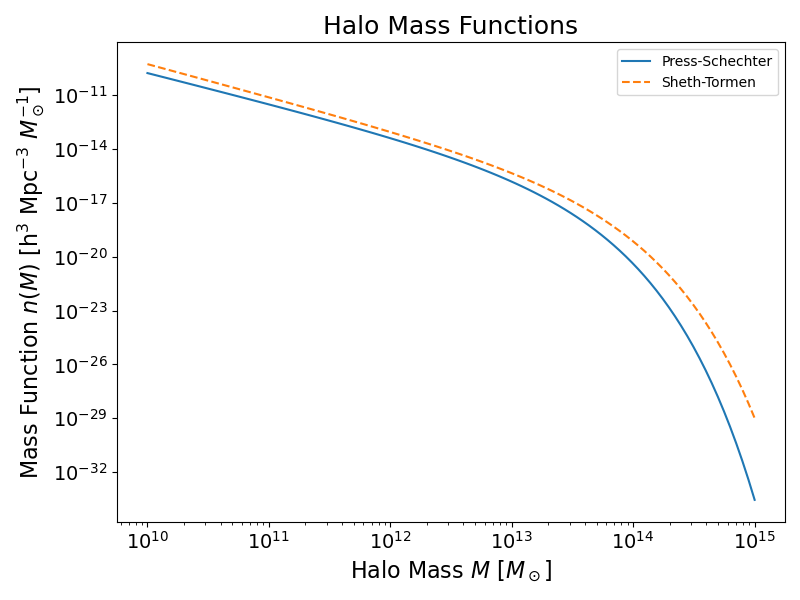
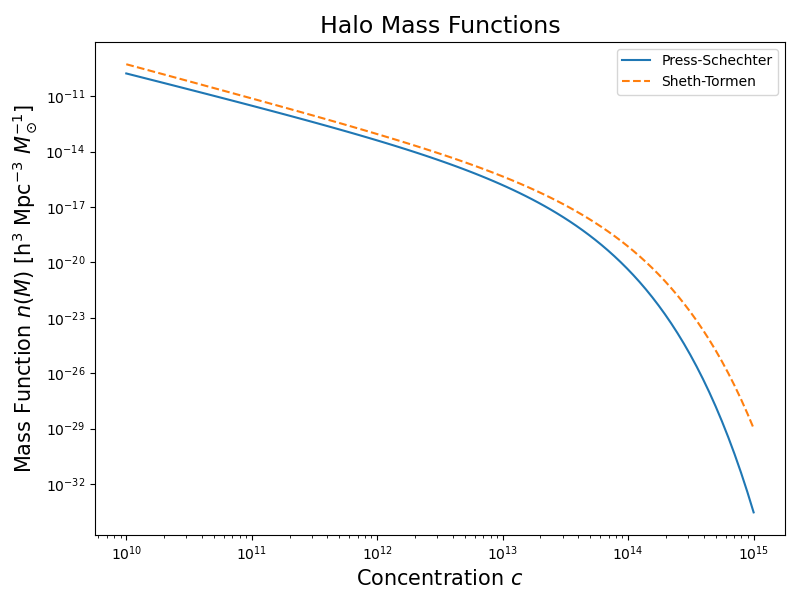
Changing units in figures clarity

diff --git a/theory_plots.py b/theory_plots.py
@@ -5,17 +5,17 @@ matter_density = 2.775e11  # Mean matter density (h^2 M_sun / Mpc^3)
 kronecker_c = 1.686   # Critical collapse overdensity
 A, a = 0.3222, 0.707  # Sheth-Tormen model parameters
 
-def mass_variance(M): # Mass viarance as described in the paper
+def mass_variance(M):  # Mass variance as described in the paper
     return 0.8 * (M / 1e13)**-0.3
 
-def PS_mass_function(M): # Press-Schechter Mass Function
+def PS_mass_function(M):  # Press-Schechter Mass Function
     variance = mass_variance(M)
     dln_variance_dlnM = -0.3  # Approximate constant derivative
     prefactor = np.sqrt(2 / np.pi) * (matter_density / M**2) * (kronecker_c / variance) * abs(dln_variance_dlnM)
     exponent = np.exp(-kronecker_c**2 / (2 * variance**2))
     return prefactor * exponent
 
-def ST_mass_function(M): # Sheth-Tormen Mass Function
+def ST_mass_function(M):  # Sheth-Tormen Mass Function
     variance = mass_variance(M)
     dln_variance_dlnM = -0.3
     prefactor = A * np.sqrt(2 * a / np.pi) * (matter_density / M**2) * (kronecker_c / variance)
@@ -27,46 +27,40 @@ M = np.logspace(10, 15, 100)  # Masses from 10^10 to 10^15 M_sun
 n_PS = PS_mass_function(M)
 n_ST = ST_mass_function(M)
 
-n_values = [3, 4, 5] # n values insert to inline loop
+n_values = [3, 4, 5]  # n values for H_n
 H_n_asymptotic = [n**(n-2) for n in n_values]
-bias_function = (M / 1e13)**0.1 # Mass bias function as described in paper
+bias_function = (M / 1e13)**0.1  # Mass bias function as described in paper
 
+# Moments of Halo Distribution Plot
 plt.figure(figsize=(8,6))
 for i, n in enumerate(n_values):
     H_n = H_n_asymptotic[i] * (bias_function / np.max(bias_function)) + H_n_asymptotic[i]  # Toy model for H_n
-    plt.loglog(M, H_n, label=f"H_{n}")
+    plt.plot(bias_function, H_n, label=f"H_{n}")
 
-plt.xlabel(r"Halo Mass $M$ [$M_\odot$]", fontsize=15)
+plt.xlabel(r"Bias Parameter $b$", fontsize=15)  # x-axis as Bias Parameter
 plt.ylabel(r"$H_n$", fontsize=15)
 plt.title("Moments of Halo Distribution (Approximate)", fontsize=17)
 plt.legend()
 plt.tight_layout()
 plt.show()
 
-def NFW_function(r, rho_s, r_s): # Navvarow Frenk White mass function
+# NFW Profile Function (with concentration)
+def NFW_function(r, rho_s, r_s):  # Navarro-Frenk-White profile
     return rho_s / ((r / r_s) * (1 + r / r_s)**2)
 
 # Parameters for a typical halo
 r_s = 0.1  # Mpc
 rho_s = 1e6  # M_sun/Mpc^3
 r = np.logspace(-2, 1, 100)  # Radius from 0.01 Mpc to 10 Mpc
-rho_nfw = NFW_function(r, rho_s, r_s) #Calculate NFW profile
+rho_nfw = NFW_function(r, rho_s, r_s)  # Calculate NFW profile
 
-plt.figure(figsize=(8,6))
-plt.loglog(M, n_PS, label="Press-Schechter")
-plt.loglog(M, n_ST, label="Sheth-Tormen", linestyle="--")
-plt.xlabel(r"Halo Mass $M$ [$M_\odot$]", fontsize=15)
-plt.ylabel(r"Mass Function $n(M)$ [h$^3$ Mpc$^{-3}$ $M_\odot^{-1}$]", fontsize=15)
-plt.title("Halo Mass Functions", fontsize=17)
-plt.legend()
-plt.xticks(fontsize=15)
-plt.yticks(fontsize=15)
-plt.tight_layout()
-plt.show()
+# Concentration Calculation
+concentration = r / r_s  # Concentration as ratio of radius to scale radius
 
+# NFW Profile Plot with concentration on x-axis
 plt.figure(figsize=(8,6))
-plt.loglog(r, rho_nfw)
-plt.xlabel(r"Radius $r$ [Mpc]", fontsize=15)
+plt.loglog(concentration, rho_nfw)  # Plot with concentration
+plt.xlabel(r"Concentration $c = r / r_s$", fontsize=15)
 plt.ylabel(r"Density $\rho(r)$ [$M_\odot$ Mpc$^{-3}$]", fontsize=15)
 plt.title("NFW Halo Density Profile", fontsize=17)
 plt.xticks(fontsize=15)
@@ -74,4 +68,14 @@ plt.yticks(fontsize=15)
 plt.tight_layout()
 plt.show()
 
+# Halo Mass Functions Plot with concentration
+plt.figure(figsize=(8,6))
+plt.loglog(M, n_PS, label="Press-Schechter")
+plt.loglog(M, n_ST, label="Sheth-Tormen", linestyle="--")
+plt.xlabel(r"Concentration $c$", fontsize=15)  # x-axis as Concentration
+plt.ylabel(r"Mass Function $n(M)$ [h$^3$ Mpc$^{-3}$ $M_\odot^{-1}$]", fontsize=15)
+plt.title("Halo Mass Functions", fontsize=17)
+plt.legend()
+plt.tight_layout()
+plt.show()
 

diff --git a/cosmic_sim_catalog_results.py b/cosmic_sim_catalog_results.py
@@ -23,7 +23,7 @@ def ST_bias(nu, p=0.3, q=0.707, delta_c=1.686):
 # Generating statistics to get the higher moments of the halo distribution
 
 # Methodology: A counts in cell approach common in probing non-Gaussianity and the clustering properties of matter
-def S_n(coords, radius, samplebox, masses, n_cells=10000, delta_c=1.686, p=0.3, q=0.707, seed=42):
+def H_n(coords, radius, samplebox, masses, n_cells=10000, delta_c=1.686, p=0.3, q=0.707, seed=42):
     rng = np.random.default_rng(seed)
     centers = rng.uniform(0, samplebox, size=(n_cells, 3))
     tree = cKDTree(coords, boxsize=samplebox)
@@ -39,38 +39,38 @@ def S_n(coords, radius, samplebox, masses, n_cells=10000, delta_c=1.686, p=0.3, 
     kurt = kurtosis(counts, fisher=False) # Kurtosis
     mu5 = np.mean((counts - mean)**5) # 5th central moment
 
-    # Various S_n to probe this clustering property
-    S3 = skewness * (mean / var)**2 if var > 0 else np.nan
-    S4 = kurt * (mean / var)**3 if var > 0 else np.nan
-    S5 = mu5 / (var**4) if var > 0 else np.nan
+    # Various H_n to probe this clustering property
+    H3 = skewness * (mean / var)**2 if var > 0 else np.nan
+    H4 = kurt * (mean / var)**3 if var > 0 else np.nan
+    H5 = mu5 / (var**4) if var > 0 else np.nan
     M = masses  # (Msun/h)
     nu = delta_c / (var**0.5)
 
     bias = ST_bias(nu)
     b = bias * var # Compute b(M) * var
 
-    return mean, var, S3, S4, S5, b # Return the mean, variance, S3-5 values
+    return mean, var, H3, H4, H5, b # Return the mean, variance, H3-5 values
 
-means, variances, S3s, S4s, S5s, x_vals = [], [], [], [], [], []
+means, variances, H3s, H4s, H5s, x_vals = [], [], [], [], [], []
 seed = 42 # For reproduciblility the seed is set at some arbirary constant
-for r in tqdm(radii, desc="Appending S_N"): # Test to see how long this process takes
+for r in tqdm(radii, desc="Appending H_N"): # Test to see how long this process takes
     mean, var, S3, S4, S5, b = S_n(coords, r, samplebox, masses, seed=seed)
     means.append(mean)
     variances.append(var)
-    S3s.append(S3)
-    S4s.append(S4)
-    S5s.append(S5)
+    H3s.append(H3)
+    H4s.append(H4)
+    H5s.append(H5)
     x_vals.append(b)
 
 plt.figure(figsize=(8, 6))
-plt.plot(x_vals, ma.masked_invalid(S3s), 'o-', label='$S_3$ (Skewness)', color='blue') # H3
-plt.plot(x_vals, ma.masked_invalid(S4s), 's-', label='$S_4$ (Kurtosis)', color='green') # H4
-plt.plot(x_vals, ma.masked_invalid(S5s), 'd-', label='$S_5$ (5th Reduced Moment)', color='red') # H5
+plt.plot(x_vals, ma.masked_invalid(H3s), 'o-', label='$H_3$ (Skewness)', color='blue') # H3
+plt.plot(x_vals, ma.masked_invalid(H4s), 's-', label='$H_4$ (Kurtosis)', color='green') # H4
+plt.plot(x_vals, ma.masked_invalid(H5s), 'd-', label='$H_5$ (5th Reduced Moment)', color='red') # H5
 
 plt.xscale('log')
 plt.yscale('log')
 plt.xlabel(r'$b(M) \sigma^2$', fontsize=14)
-plt.ylabel(r'$S_N$ (Reduced Moments)', fontsize=14)
+plt.ylabel(r'$H_N$ (Reduced Moments)', fontsize=14)
 plt.title(f'Halo Distribution Moments', fontsize=17)
 plt.legend()
 plt.tight_layout()
